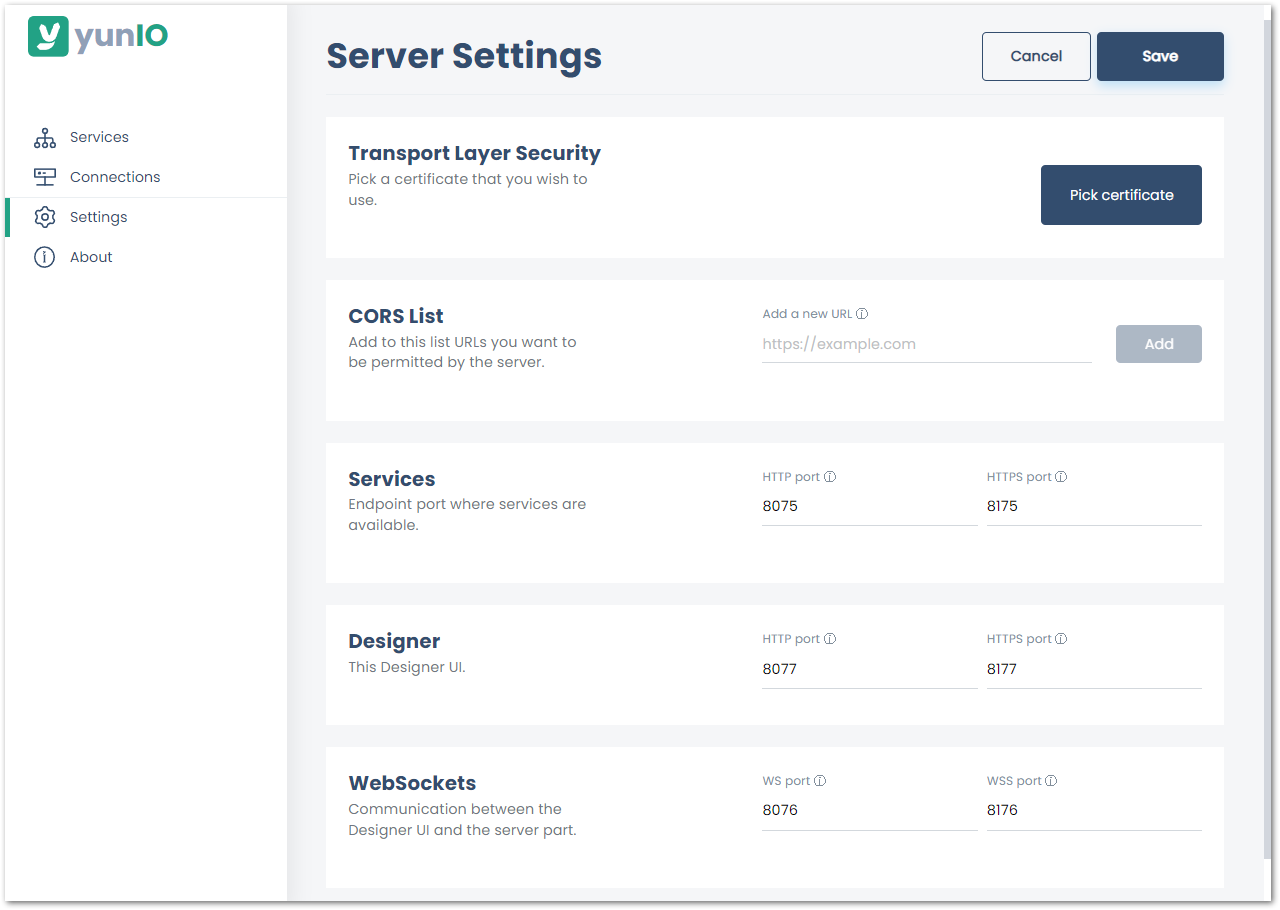
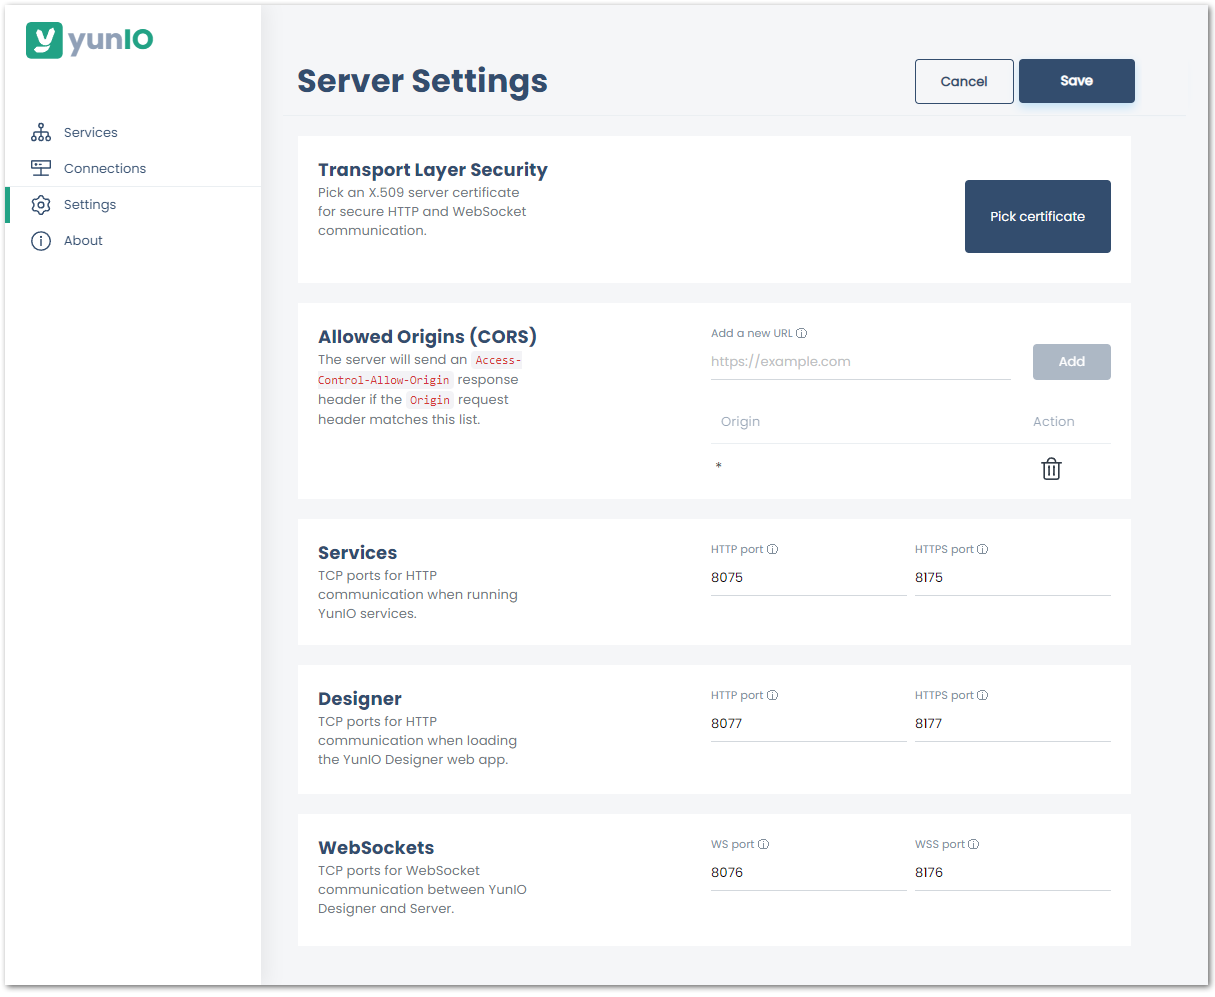
Server-Settings

diff --git a/content/_de/yunio/server-settings.md b/content/_de/yunio/server-settings.md
@@ -1,0 +1,75 @@
+---
+ref: yunio-07
+layout: page
+title: Server Settings
+description: Server
+product: yunio
+parent: yunio
+childidentifier: server
+permalink: /:collection/:path
+weight: 30
+lang: de_DE
+old_url: /Xtract-Universal-DE/default.aspx?pageid=server
+---
+
+Dieser Abschnitt enthält Informationen über die yunIO Server-Einstellungen.<br>
+Öffnen Sie die Einstellungen unter dem Menüpunkt **Settings**. 
+Speichern Sie Änderungen der Einstellungen mit **[Save]**.
+
+{: .box-note }
+**Hinweis:** Die vorgenommenen Änderungen werden durch den Neustart des yunIO-Servers aktiviert.
+
+![Server-Settings](/img/content/yunio/Server-settings.png){:class="img-responsive" }
+
+### Transport Layer Security
+
+Die Sicherheitsmethode der Transportverschlüsselung verhindert das Ausspionieren oder Manipulieren der Daten (z.B. SAP-Credentials), die zwischen dem Designer und dem Server ausgetauscht werden.
+Wenn *Transport Layer Security (TLS)* aktiviert ist, wird auf den Webserver über eine https-Verbindung zugegriffen.
+Dafür muss das X.509 Zertifikat installiert sein. 
+Für mehr Informationwn zu TLS, siehe [Microsoft: TLS-Protokoll](https://docs.microsoft.com/de-de/windows/win32/secauthn/transport-layer-security-protocol).
+
+
+#### Pick Certificate
+Klicken Sie auf **[Pick Certificate]** und wählen Sie ein X.509 Zertifikat aus der Liste verfügbarer Zertifikate aus.
+Falls das Zertifikat nicht in der Liste oder im Windows Certificate Store aufgelistet ist, [installieren Sie das X.509 Zertifikat](./x.509-zertifikat-installieren).
+
+#### TLS enabled
+Wenn ein Zertifikat gewählt wurde, ist die Option **TLS enabled** verfügbar.<br>
+Über **TLS enabled** aktivieren oder deaktivieren Sie die Verwendung von Transportverschlüsselung für den Webserver.
+
+### CORS List
+
+Geben Sie eine URL ein, die Sie zur Liste der ...
+
+{: .box-note }
+**Hinweis:** Während der Testphase können Sie ( * ) verwenden, um alle URLs zuzulassen.
+
+### Services
+
+Definieren Sie die Ports für Ihre Dienste.
+
+#### HTTP port
+Dieser Port wird für Ihre Dienste verwendet, wenn keine Transportverschlüsselung aktiv ist. Die maximale Portnummer ist 65535.
+
+#### HTTPS port
+Dieser Port wird für Ihre Dienste verwendet, wenn die Transportverschlüsselung aktiv ist. Die maximale Portnummer ist 65535.
+
+### Designer
+
+Definieren Sie die Ports für den Designer.
+
+#### HTTP port
+Dieser Port wird verwendet, um auf den Designer zuzugreifen, wenn keine Transportverschlüsselung aktiv ist. Die maximale Portnummer ist 65535.
+
+#### HTTPS port
+Dieser Port wird verwendet, um auf den Designer zuzugreifen, wenn die Transportverschlüsselung aktiv ist. Die maximale Portnummer ist 65535.
+
+### WebSockets
+
+Definieren Sie die Ports für die Kommunikation zwischen dem Designer und dem yunIO-Server.
+
+#### HTTP port
+Dieser Port wird für die Kommunikation zwischen dem Designer und dem yunIO-Server, wenn keine Transportverschlüsselung aktiv ist. Die maximale Portnummer ist 65535.
+
+#### HTTPS port
+Dieser Port wird für die Kommunikation zwischen dem Designer und dem yunIO-Server, wenn die Transportverschlüsselung aktiv ist. Die maximale Portnummer ist 65535.

diff --git a/content/_en/yunio/server-settings.md b/content/_en/yunio/server-settings.md
@@ -1,0 +1,78 @@
+---
+ref: yunio-07
+layout: page
+title: Server Settings
+description: Server
+product: yunio
+parent: yunio
+childidentifier: server
+permalink: /:collection/:path
+weight: 30
+lang: en_GB
+old_url: /Xtract-Universal-DE/default.aspx?pageid=server
+---
+ 
+
+The follwing section contains an overview of the yunIO server settings in the **Settings** menu. <br>
+To save any changes made in the **settings** menu, click **[Save]**.
+
+{: .box-note }
+**Note:** The changes are activated when restarting the yunIO server.
+
+![Server-Settings](/img/content/yunio/Server-settings.png){:class="img-responsive" }
+
+
+### Transport Layer Security
+
+The Transport Layer Security (TLS) protocol prevents spying or manipulation of data (such as SAP credentials) that is exchanged between the Designer and the Server.
+When TLS is enabled, access restrictions require accessing the web server through an https connection. This requires installation of an X.509 certificate.
+For more information on TLS, see [Microsoft: Transport Layer Security Protocol](https://docs.microsoft.com/en-us/windows/win32/secauthn/transport-layer-security-protocol).
+
+
+#### Pick Certificate
+Click **[Pick Certificate]** and select an X.509 certificate from the list of available certificates.<br>
+If the certificate is not listed in the menu or in the Windows certificate store, [install the X.509 certificate](./install-x.509-Certificate).
+
+#### TLS enabled
+Once a certificate is selected, the option **TLS enabled** is available.<br>
+Enable or disable the usage of transport encryption for the web server.
+
+### CORS List
+
+Enter a URL you want to add to the list of URLs ...
+
+{: .box-note }
+**Note:** For testing purposes you can use ( * ) to allow all URLs.
+
+
+### Services
+
+Define the ports of your services. 
+
+#### HTTP port
+This port is used for your services if *Transport Layer Security (TLS)* is disabled. The maximum port number is 65535.
+
+#### HTTPS port
+This port is used for your services if *Transport Layer Security (TLS)* is enabled. The maximum port number is 65535.
+
+
+### Designer
+
+Define the ports of the yunIO web UI. 
+
+#### HTTP port
+This port is used to access the web UI if *Transport Layer Security (TLS)* is disabled. The maximum port number is 65535.
+
+#### HTTPS port
+This port is used to access the web UI if *Transport Layer Security (TLS)* is enabled. The maximum port number is 65535.
+
+
+### WebSockets
+
+Define the ports for the communication between the Designer and the yunIO server. 
+
+#### HTTP port
+This port is used for the communication between the Designer and the yunIO server if *Transport Layer Security (TLS)* is disabled. The maximum port number is 65535.
+
+#### HTTPS port
+This port is used for the communication between the Designer and the yunIO server if *Transport Layer Security (TLS)* is enabled. The maximum port number is 65535.
